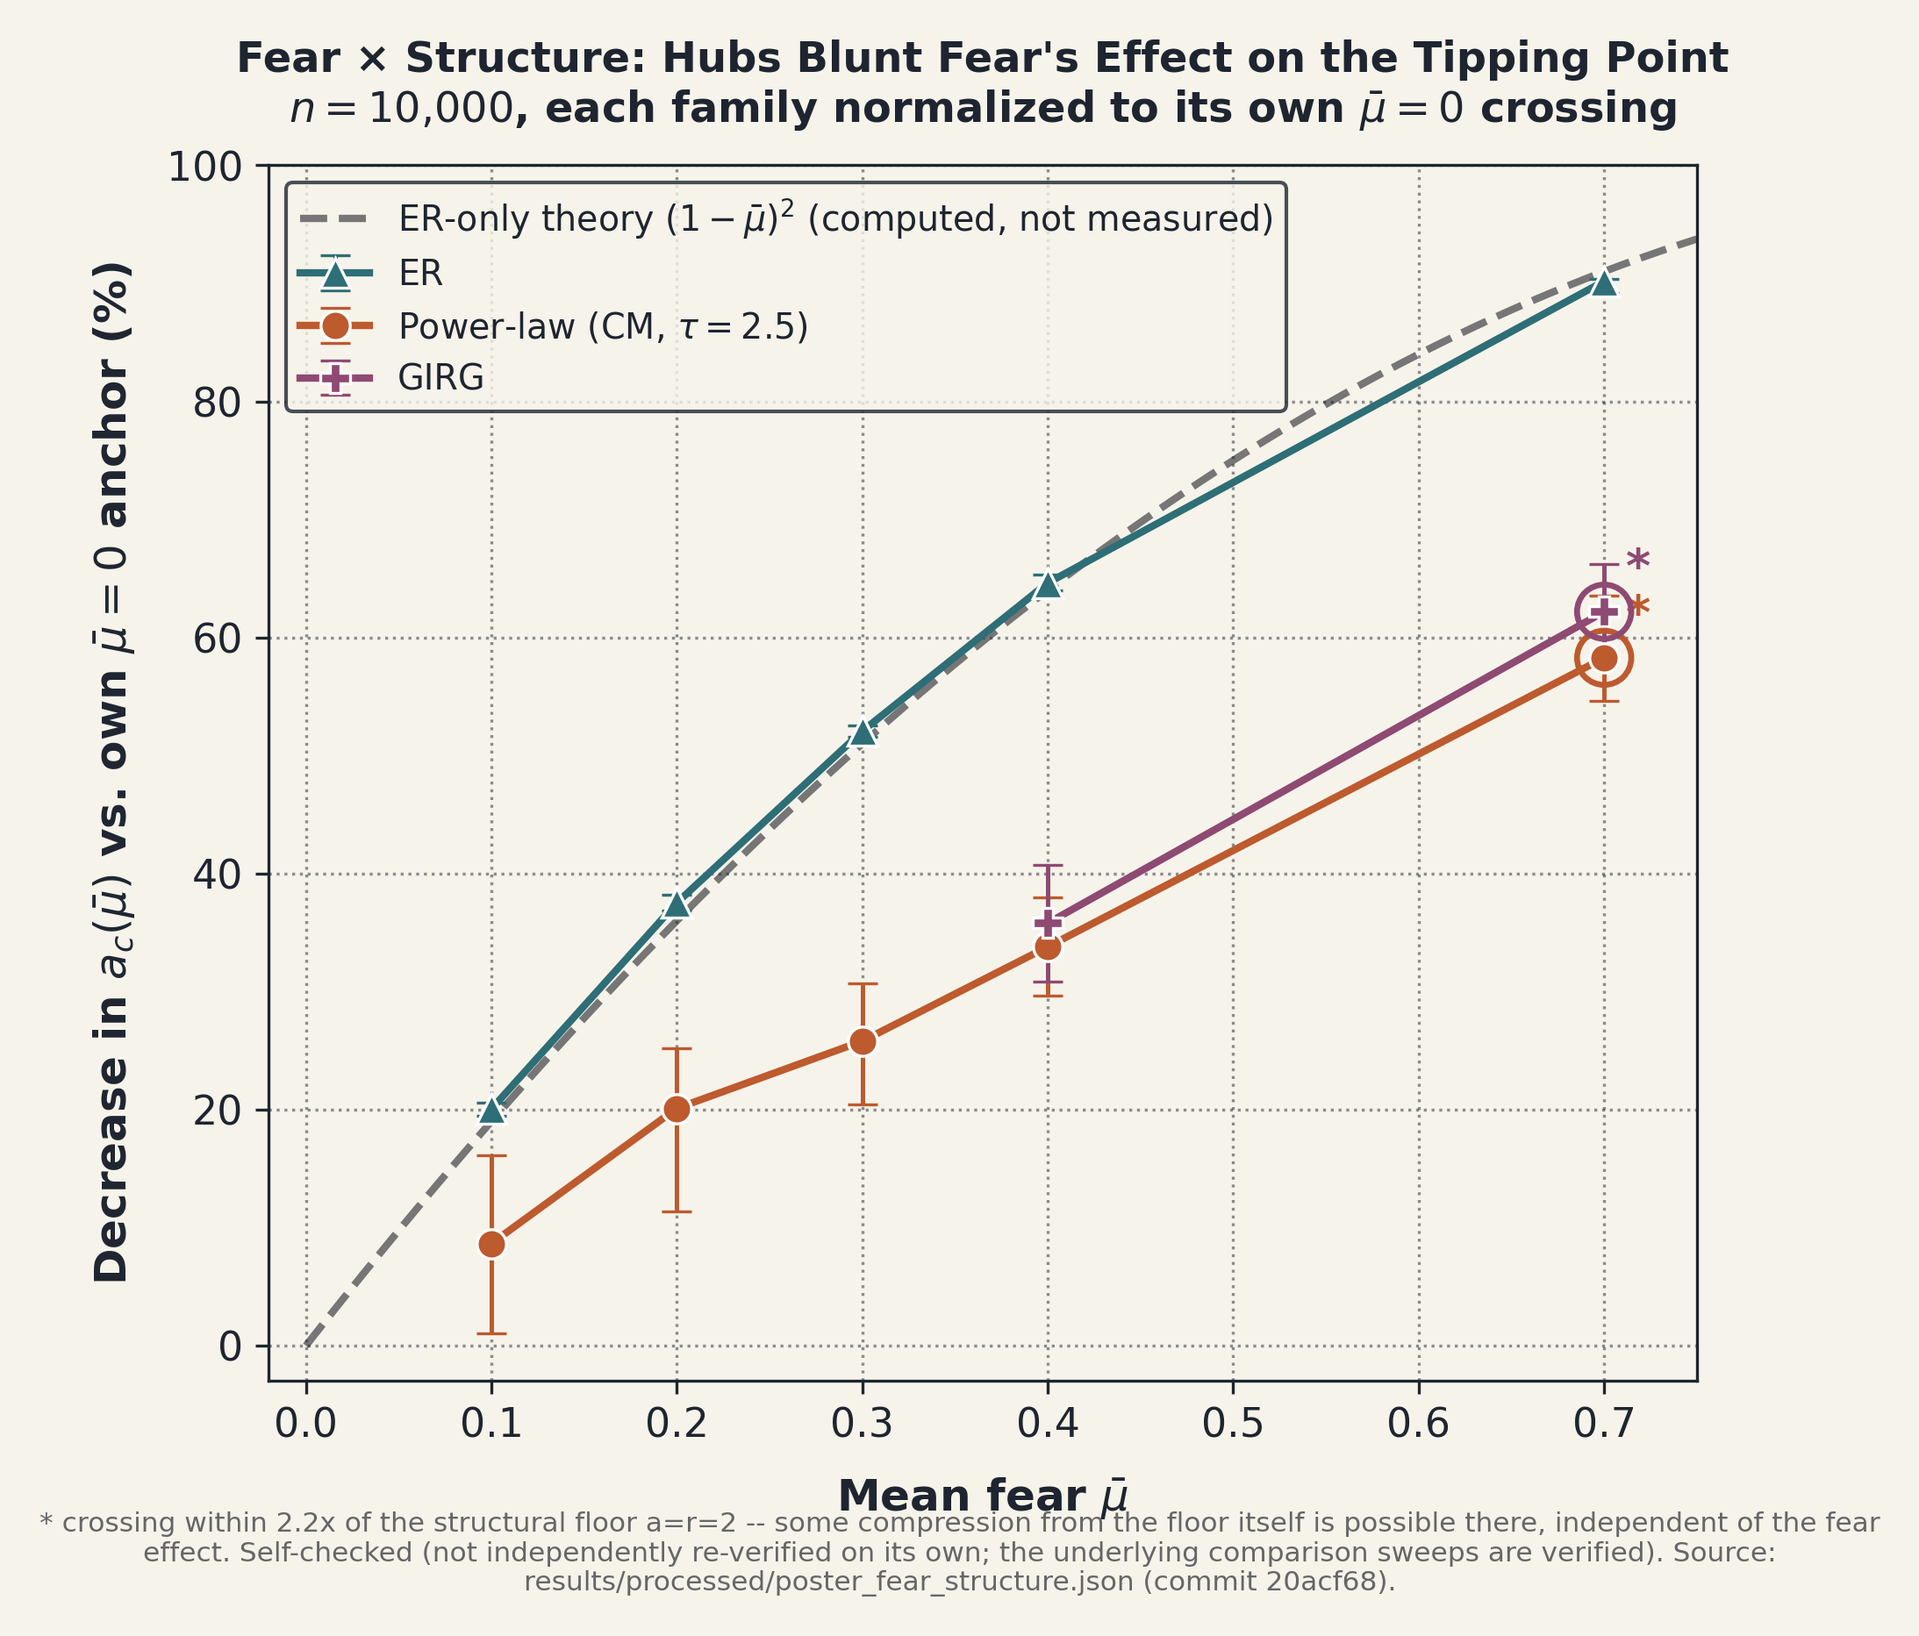
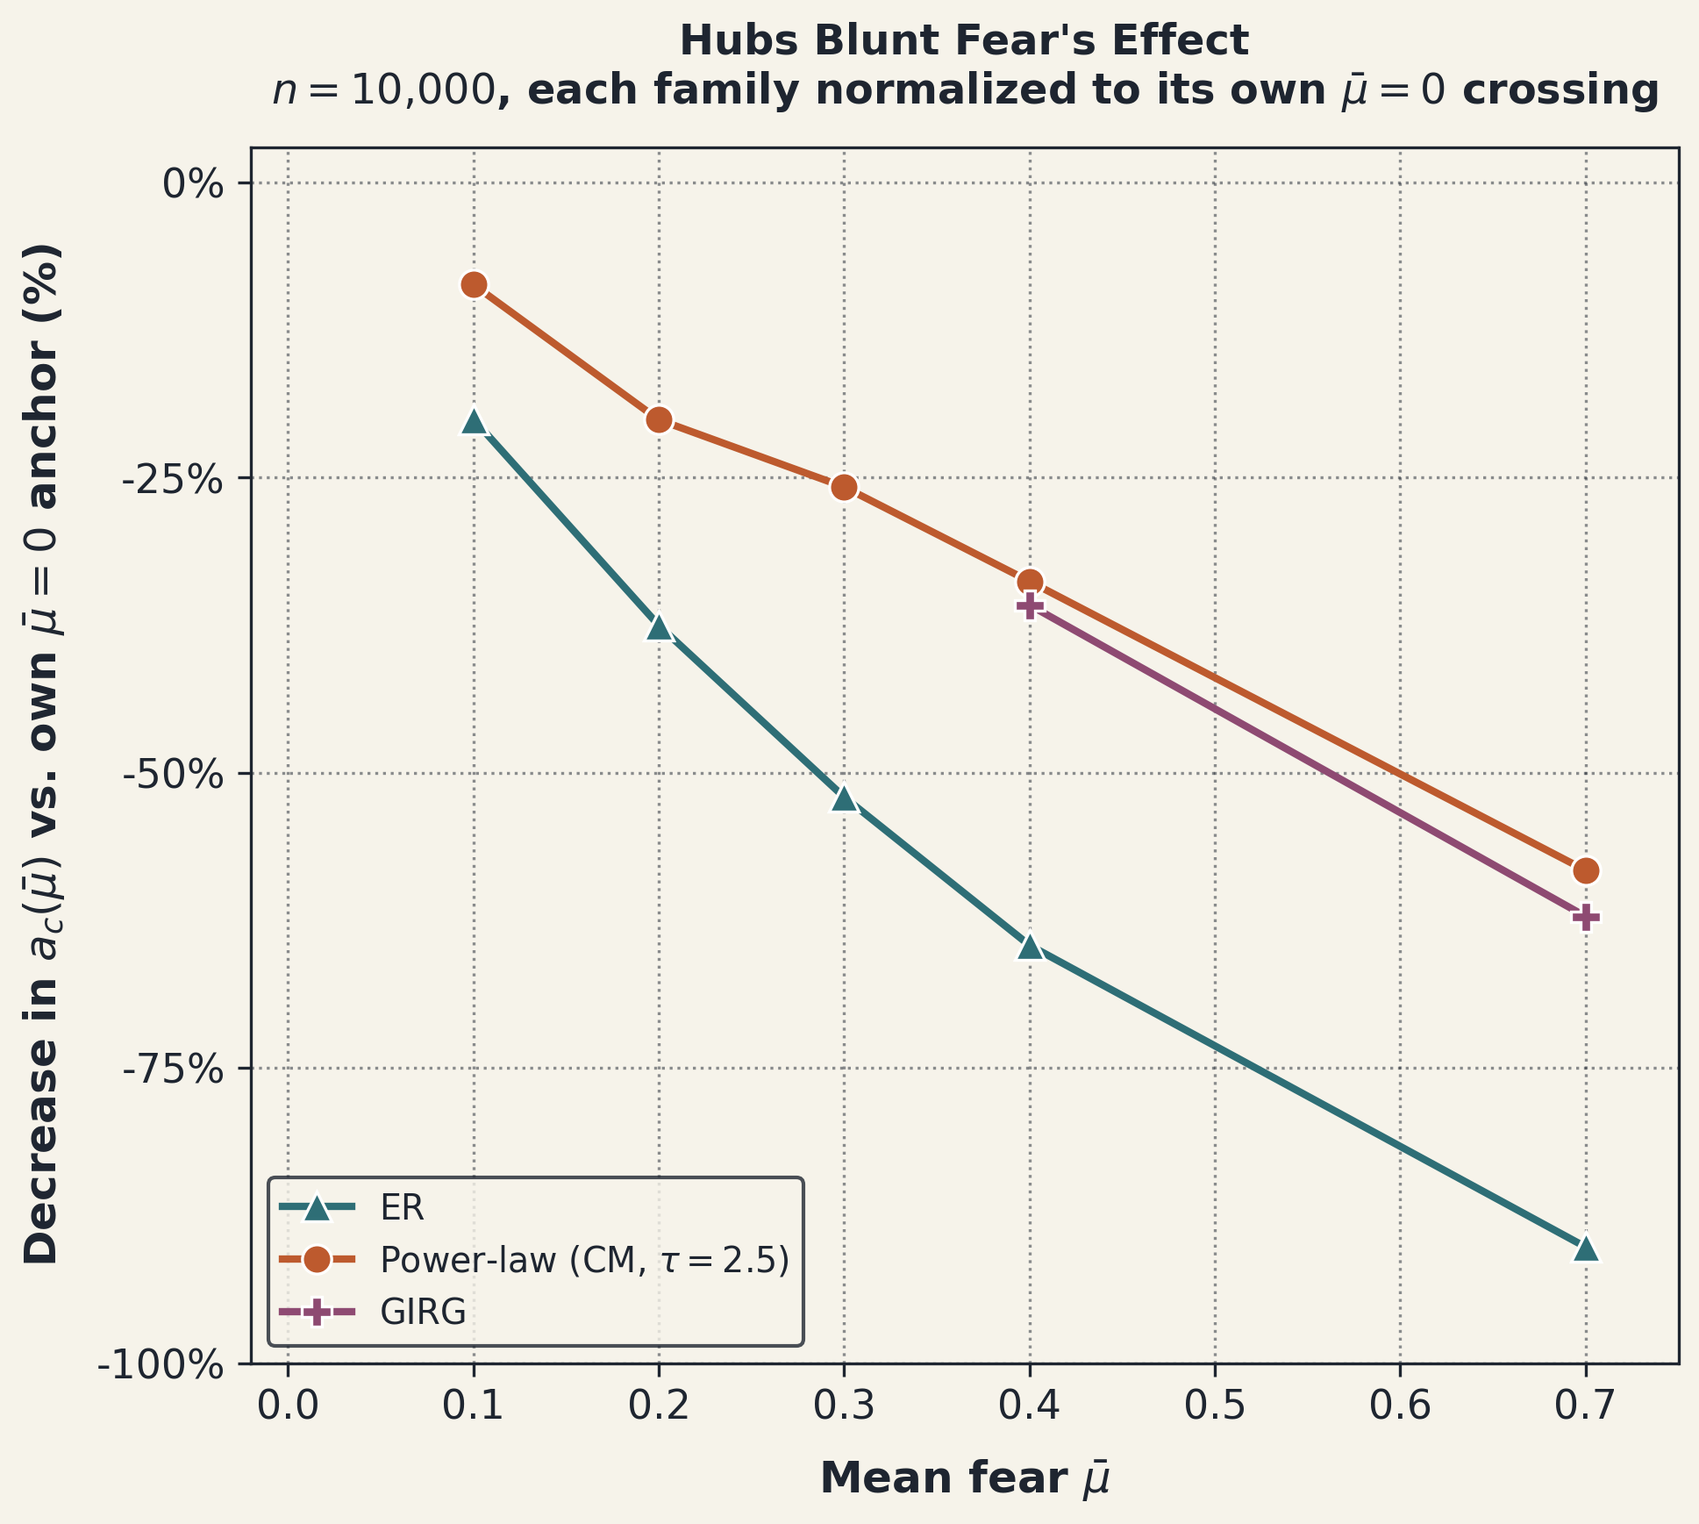
poster: condense Fear Amplifies to distilled claims; invert + clean Fear x Structure; demo-page notes
- Fear Amplifies panel cut to Gary's distilled form ('Fear is an amplifier
  with a dial' + two sentences; geometry claim at 'appears to damp slightly'
  strength -- per-cell GIRG-vs-CM CIs overlap, caveat recorded in presenter
  notes). Full prose moved to PRESENTER NOTES tex comments; famcompare
  figure at width=1.1\linewidth (deliberate symmetric bleed via makebox).
- Viewer-facing section notes added to poster-demo/index.html (QR target),
  page made scrollable.
- Fear x Structure figure: y-axis inverted (0% top, -100% bottom -- a
  decrease reads downward), ER-only (1-mu_bar)^2 theory line removed
  (cross-model comparison; theory_curve stays in the JSON), CIs and
  near-floor rings/footnote removed (floor argument is deterministic only
  at mu=0: with fear active a fear failure can supply the second failed
  neighbor, so ignition from a=1 has positive probability -- Gary's
  observation, to be tested by the drafted single-node experiment), title
  shortened. near_floor flags remain in the analysis JSON.
- poster.tex caption updated ('lower is a larger drop'); zip rebuilt 15/15
  and synced to ~/Downloads at each step.

diff --git a/poster-demo/index.html b/poster-demo/index.html
@@ -14,10 +14,13 @@
             color: #c9d1d9;
             font-family: 'Inter', sans-serif;
             display: flex;
-            justify-content: center;
+            flex-direction: column;
+            justify-content: flex-start;
             align-items: center;
-            height: 100vh;
-            overflow: hidden;
+            min-height: 100vh;
+            overflow-x: hidden;
+            padding: 14vh 1.5rem 4rem;
+            box-sizing: border-box;
         }
         /* Dynamic ambient background */
         .background {
@@ -83,6 +86,34 @@
         @keyframes spin {
             to { transform: rotate(360deg); }
         }
+        .notes {
+            max-width: 720px;
+            margin-top: 3rem;
+            padding: 2.5rem;
+            background: rgba(255, 255, 255, 0.03);
+            border-radius: 24px;
+            border: 1px solid rgba(255, 255, 255, 0.08);
+            z-index: 1;
+            text-align: left;
+        }
+        .notes h2 {
+            font-size: 1.6rem;
+            font-weight: 600;
+            color: #c9d1d9;
+            margin: 0 0 1rem;
+        }
+        .notes h2 span {
+            background: -webkit-linear-gradient(45deg, #8E4A72, #BD5A2E);
+            -webkit-background-clip: text;
+            -webkit-text-fill-color: transparent;
+        }
+        .notes p {
+            font-size: 1.05rem;
+            line-height: 1.65;
+            animation: none;
+            margin-bottom: 1rem;
+        }
+        .notes strong { color: #c9d1d9; }
     </style>
 </head>
 <body>
@@ -92,5 +123,27 @@
         <p>Interactive graph visualizations coming soon.</p>
         <div class="loader"></div>
     </div>
+    <section class="notes">
+        <h2>Poster notes — <span>Fear Amplifies</span></h2>
+        <p>The y-axis of the figure is the <strong>fear multiplier</strong>: how many
+        times more likely a system-wide cascade becomes when banks carry fear level
+        &mu;&#772; compared with the same network at zero fear (n = 10,000, 500
+        trials per point).</p>
+        <p>On the <strong>heavy-tailed families</strong> (power-law and GIRG), fear
+        multiplies ignition by roughly 3&times;, and that multiplier stays flat as the
+        network grows — fear raises the <strong>level</strong> of risk, not its
+        <strong>scaling</strong>.</p>
+        <p>On an <strong>Erd&#337;s&ndash;R&eacute;nyi network at a matched starting
+        risk</strong> (a seed chosen so its zero-fear ignition rate matches the
+        heavy-tailed families&rsquo; few percent), the same fear multiplies ignition
+        at least <strong>25&ndash;40&times;</strong>. The open points on the figure
+        mean every one of 500 trials cascaded — the measurement hit its ceiling, so
+        the true multiplier is higher still.</p>
+        <p>But with a small <strong>bounded seed</strong> (a = r = 2), ER never
+        ignites at any fear level: fear amplifies cascades the structure makes
+        possible; it cannot start them alone. And the multiplier has a
+        <strong>dial</strong> — at low fear (&mu;&#772; = 0.1) it is only about
+        1.5&times;.</p>
+    </section>
 </body>
 </html>

diff --git a/scripts/plot_poster_fear_structure.py b/scripts/plot_poster_fear_structure.py
@@ -35,15 +35,18 @@ FAMILY_STYLE = {
 }
 BG_COLOR = "#F6F3EA"
 TEXT_COLOR = "#1E2530"
-THEORY_COLOR = "#767676"  # neutral gray: computed reference, not a measured series
 
 
 def main() -> None:
     with open(INPUT_PATH) as f:
         d = json.load(f)
 
+    # theory_curve is intentionally never read here: the figure compares
+    # measured families against each other, and the ER-only (1-mu_bar)^2
+    # reference is the one element that isn't a cross-model measurement, so
+    # it's been dropped from the plot. The JSON keeps it -- this is a
+    # plotting choice, not an analysis-artifact change.
     family_curves = d["family_curves"]
-    theory = d["theory_curve"]
 
     plt.rcParams.update({
         "figure.facecolor": BG_COLOR,
@@ -60,47 +63,33 @@ def main() -> None:
     fig, ax = plt.subplots(figsize=(7.0, 6.0), dpi=300)
     ax.set_facecolor(BG_COLOR)
 
-    # Theory line drawn first, dashed and gray, and explicitly labeled as
-    # computed rather than measured (project lesson: a computed value must be
-    # visually distinct from a measured one, never sharing a solid line style
-    # or a family's own color).
-    ax.plot(
-        theory["mean_fear"], theory["pct_decrease"],
-        color=THEORY_COLOR, linestyle="--", linewidth=2.0, zorder=1,
-        label="ER-only theory $(1-\\bar\\mu)^2$ (computed, not measured)",
-    )
-
-    near_floor_present = False
     for fam, rows in family_curves.items():
         style = FAMILY_STYLE.get(fam, {"color": "#333333", "marker": "s", "label": fam})
         mus = [r["mean_fear"] for r in rows]
-        pct = [r["pct_decrease"] for r in rows]
-        lo = [r["pct_decrease"] - r["pct_decrease_ci_low"] for r in rows]
-        hi = [r["pct_decrease_ci_high"] - r["pct_decrease"] for r in rows]
+        # Plotted as negative so a percentage DECREASE reads downward on the
+        # page (mu_bar=0 anchor at 0%, curves descend as fear grows).
+        pct = [-r["pct_decrease"] for r in rows]
 
-        ax.errorbar(
-            mus, pct, yerr=[lo, hi],
+        # Plain line + markers -- no CI errorbars (owner call, 2026-08-04):
+        # the poster reads cleaner without them and the underlying comparison
+        # sweeps are already verified elsewhere.
+        ax.plot(
+            mus, pct,
             color=style["color"], marker=style["marker"], linestyle="-",
-            linewidth=2.0, markersize=8, capsize=4, elinewidth=1.2,
+            linewidth=2.0, markersize=8,
             markeredgecolor="white", markeredgewidth=0.8,
             label=style["label"], zorder=3,
         )
 
-        # Near-floor footnote marker: an open ring around the point, not a
-        # color change (color already carries family identity here).
-        for r in rows:
-            if r["near_floor"]:
-                near_floor_present = True
-                ax.scatter(
-                    [r["mean_fear"]], [r["pct_decrease"]],
-                    s=220, facecolors="none", edgecolors=style["color"],
-                    linewidths=1.6, zorder=4,
-                )
-                ax.annotate(
-                    "*", xy=(r["mean_fear"], r["pct_decrease"]),
-                    xytext=(6, 8), textcoords="offset points",
-                    fontsize=13, color=style["color"], fontweight="bold",
-                )
+        # near_floor flags remain in the JSON (poster_fear_structure.json,
+        # per-row "near_floor"), but the ring/asterisk visual that used to
+        # mark them is removed (owner call, 2026-08-04). Rationale: the
+        # a=r=2 structural-floor argument is deterministic only at mu_bar=0
+        # -- once fear is active, a fear-channel failure can supply the
+        # second failed neighbor, so ignition from a single seed has
+        # positive probability and the floor is not absolute at mu_bar>0.
+        # Flagging points as "near the floor" therefore overstated a
+        # boundary that doesn't actually bind here.
 
     ax.set_xlabel(r"Mean fear $\bar\mu$", fontsize=12, fontweight="bold", labelpad=8)
     # Plain "vs." (no LaTeX "\ " idiom): that only expands under real LaTeX,
@@ -109,33 +98,37 @@ def main() -> None:
     ax.set_ylabel(r"Decrease in $a_c(\bar\mu)$ vs. own $\bar\mu=0$ anchor (%)",
                   fontsize=12, fontweight="bold", labelpad=8)
     ax.set_xlim(-0.02, 0.75)
-    ax.set_ylim(-3, 100)
+    # Inverted: 0% (the mu_bar=0 anchor) at the top, -100% at the bottom, so
+    # a bigger decrease reads as further down the page. Small headroom above
+    # 0 (3 units) mirrors the original's headroom below 0.
+    ax.set_ylim(-100, 3)
+    ax.set_yticks([0, -25, -50, -75, -100])
+    ax.set_yticklabels(["0%", "-25%", "-50%", "-75%", "-100%"])
     ax.set_title(
-        "Fear × Structure: Hubs Blunt Fear's Effect on the Tipping Point\n"
+        "Hubs Blunt Fear's Effect\n"
         r"$n=10{,}000$, each family normalized to its own $\bar\mu=0$ crossing",
         fontsize=11.5, fontweight="bold", pad=12, color=TEXT_COLOR,
     )
     ax.grid(True, linestyle=":", alpha=0.5, color=TEXT_COLOR)
-    ax.legend(loc="upper left", fontsize=9.5, frameon=True, facecolor=BG_COLOR, edgecolor=TEXT_COLOR)
+    # Curves now start near 0% (top-left, low mu_bar) and descend toward
+    # -100% (bottom-right, high mu_bar) -- the mirror image of the old
+    # ascending layout. "upper left" would now sit right on top of the
+    # curves' starting points, so the legend moves to "lower left", the
+    # empty corner under the inverted layout (matches the reasoning that
+    # placed it at "upper left" before: away from where the lines are).
+    # Still the empty corner now that the errorbars/near-floor rings are
+    # gone -- rechecked, nothing else moved into it.
+    ax.legend(loc="lower left", fontsize=9.5, frameon=True, facecolor=BG_COLOR, edgecolor=TEXT_COLOR)
 
-    # Plain wording, not the internal "/verify-gated" shorthand: this image
-    # prints on the poster, same reasoning as the poster.tex prose substitution.
-    footnote = (
-        "Self-checked (not independently re-verified on its own; the underlying "
-        "comparison sweeps are verified). Source: results/processed/poster_fear_structure.json "
-        f"(commit {d['metadata']['git_commit'][:7]})."
-    )
-    if near_floor_present:
-        footnote = (
-            "* crossing within 2.2x of the structural floor a=r=2 -- some compression "
-            "from the floor itself is possible there, independent of the fear effect. "
-        ) + footnote
-
-    fig.text(0.5, -0.02, footnote, ha="center", fontsize=7.5, color="#666666", wrap=True)
-
+    # Footnote/provenance text block removed (owner call, 2026-08-04):
+    # provenance stays recorded in the JSON metadata (results/processed/
+    # poster_fear_structure.json) and in the poster.tex comments. No bottom
+    # text block means no reserved space for it -- pad_inches trimmed since
+    # there's no longer a caption to leave room for, so the figure doesn't
+    # carry a dead band at the bottom.
     fig.savefig(
         FIG_PATH, dpi=300, facecolor=BG_COLOR,
-        bbox_inches="tight", pad_inches=0.15,
+        bbox_inches="tight", pad_inches=0.08,
         metadata={"Creation Time": None, "Software": None},
     )
     plt.close(fig)

diff --git a/okf/poster/poster.tex b/okf/poster/poster.tex
@@ -213,35 +213,39 @@ We hold network size $n$ and average degree constant across all tests to isolate
 %% blind-/verify-gated (same evidentiary status as Fear x Structure below).
 %% famcompare_analysis.json · 500 trials/cell · n=10000 · 95% bootstrap CIs in
 %% famcompare_analysis.json · ER's open points are lower bounds
-Fear multiplies the probability of ignition by roughly $3\times$ on the
-heavy-tailed families (power-law and GIRG alike), and on the power-law model
-that multiplier is \textbf{flat in $n$} at fixed $\bar\mu$: fear changes the
-\emph{level} of ignition, not its \textbf{scaling}.
+%% PRESENTER NOTES (2026-08-04): the panel below carries only the distilled
+%% claims; this is the talking script. Viewer-facing notes live on the
+%% poster-demo page (QR target).
+%%   Fear multiplies ignition by roughly 3x on heavy-tailed families
+%%   (power-law and GIRG). On the power-law model this multiplier is flat in
+%%   n at fixed mu-bar: fear shifts the LEVEL of ignition, not its SCALING.
+%%   Amplification depends on structure. On a matched ER baseline, fear
+%%   multiplies ignition by at least 25-40x (open points: every trial
+%%   cascaded, so the true multiplier is higher). Yet with a bounded seed
+%%   (a=r=2), ER never ignites: fear amplifies cascades the structure makes
+%%   possible; it cannot start them alone.
+%%   The dial: ~1.5x at mu-bar=0.1, ~3-3.5x at mu-bar=0.4. Not a constant.
+%%   GEOMETRY CAVEAT ("appears to damp it slightly further"): GIRG's
+%%   multiplier sits below the power-law model's at every mu-bar at n=10000
+%%   (0.8/1.8/1.9/3.1x vs 2.0/2.4/3.2/3.5x) BUT the per-cell bootstrap CIs
+%%   overlap everywhere -- not statistically separable at 500 trials/cell.
+%%   "Appears to / slightly" is the ceiling of what the data supports; at the
+%%   THRESHOLD level (Fear x Structure below) CM and GIRG move together.
+\textbf{Fear is an amplifier with a dial.}
+\vspace{0.2em}
 
-\vspace{0.3em}
-How much fear amplifies is set by the structure it acts on. On ER at a
-like-for-like baseline (seed chosen so zero-fear ignition sits at the same
-few-percent level as the heavy-tailed families'), the same fear multiplies
-ignition \textbf{at least $25$--$40\times$} --- most cells saturate at
-certainty, so these are lower bounds. And with a bounded seed ($a = r = 2$),
-ER \emph{never} ignites at any $\bar\mu$: fear amplifies a cascade the
-structure makes possible; it cannot start one on its own.
-
-\vspace{0.3em}
-The multiplier is \emph{not} constant across $\bar\mu$ --- it falls to about
-$1.5\times$ at $\bar\mu = 0.1$. Fear is an amplifier with a dial, not a
-constant.
+Without hubs, the effect of fear is drastic. With hubs, it is subdued.
+Geometry appears to damp it slightly further --- but hubs do most of the
+work.
 
 \begin{center}
 \fcolorbox{tcRule}{tcCream}{%
-  %% 7in, not 2.2in: at 2.2in on a 48in poster these read as thin strips and left
-  %% the right column at roughly 40% of the left column's ink density.
-  \begin{minipage}[t][7in][c]{0.95\linewidth}
+  \begin{minipage}[t]{1\linewidth} % Natural aspect, no fixed height
     \centering
-    \includegraphics[width=0.95\linewidth, height=6.4in, keepaspectratio]{img/famcompare_ratio}\\[0.4em]
-    {\color{tcInkSoft}\small Fear multiplier vs.\ $\bar\mu$ at $n=10{,}000$.
-    Open marker + dashed arrow: at least this value --- all 500/500 trials
-    systemic; the true multiplier is higher.}
+    %% width=1.1\linewidth is deliberate (Gary, 2026-08-04): the figure bleeds
+    %% ~5% past the box frame on each side; \makebox centers the overhang so
+    %% it is symmetric instead of pushing out the right edge only.
+    \makebox[\linewidth][c]{\includegraphics[width=1.1\linewidth, height=20in, keepaspectratio]{img/famcompare_ratio}}
   \end{minipage}%
 }
 \end{center}
@@ -263,6 +267,10 @@ constant.
 %% Numbers below: verify from results/processed/poster_fear_structure.json,
 %% don't hand-copy. Self-checked (§5.4 gate covers the underlying comparison
 %% sweeps, not this derived percentage-decrease step on its own).
+%% 2026-08-04 (Gary): the ER-only (1-mu_bar)^2 dashed reference is REMOVED
+%% from the figure (cross-model comparison; the theory curve was the one
+%% non-measured element) and the y-axis is inverted so a decrease reads
+%% downward (0% at top, -100% at bottom). theory_curve stays in the JSON.
 The same fear that cuts ER's tipping point by 65\% cuts the heavy-tailed
 networks' by only $\sim$35\% at the same $\bar\mu = 0.4$ --- hubs blunt
 fear's effect on the threshold, and geometry doesn't change that (CM and
@@ -273,7 +281,7 @@ GIRG move together, both well short of ER):
   \begin{minipage}[t][7in][c]{0.95\linewidth}
     \centering
     \includegraphics[width=0.95\linewidth, height=6.4in, keepaspectratio]{img/poster_fear_structure}\\[0.4em]
-    {\color{tcInkSoft}\small Percentage decrease in each family's measured $a_c(\bar\mu)$ vs.\ its own $\bar\mu=0$ anchor; dashed line is the ER-only $(1-\bar\mu)^2$ theory (self-checked).}
+    {\color{tcInkSoft}\small Percentage decrease in each family's measured $a_c(\bar\mu)$ vs.\ its own $\bar\mu=0$ anchor --- lower is a larger drop (self-checked).}
   \end{minipage}%
 }
 \end{center}
